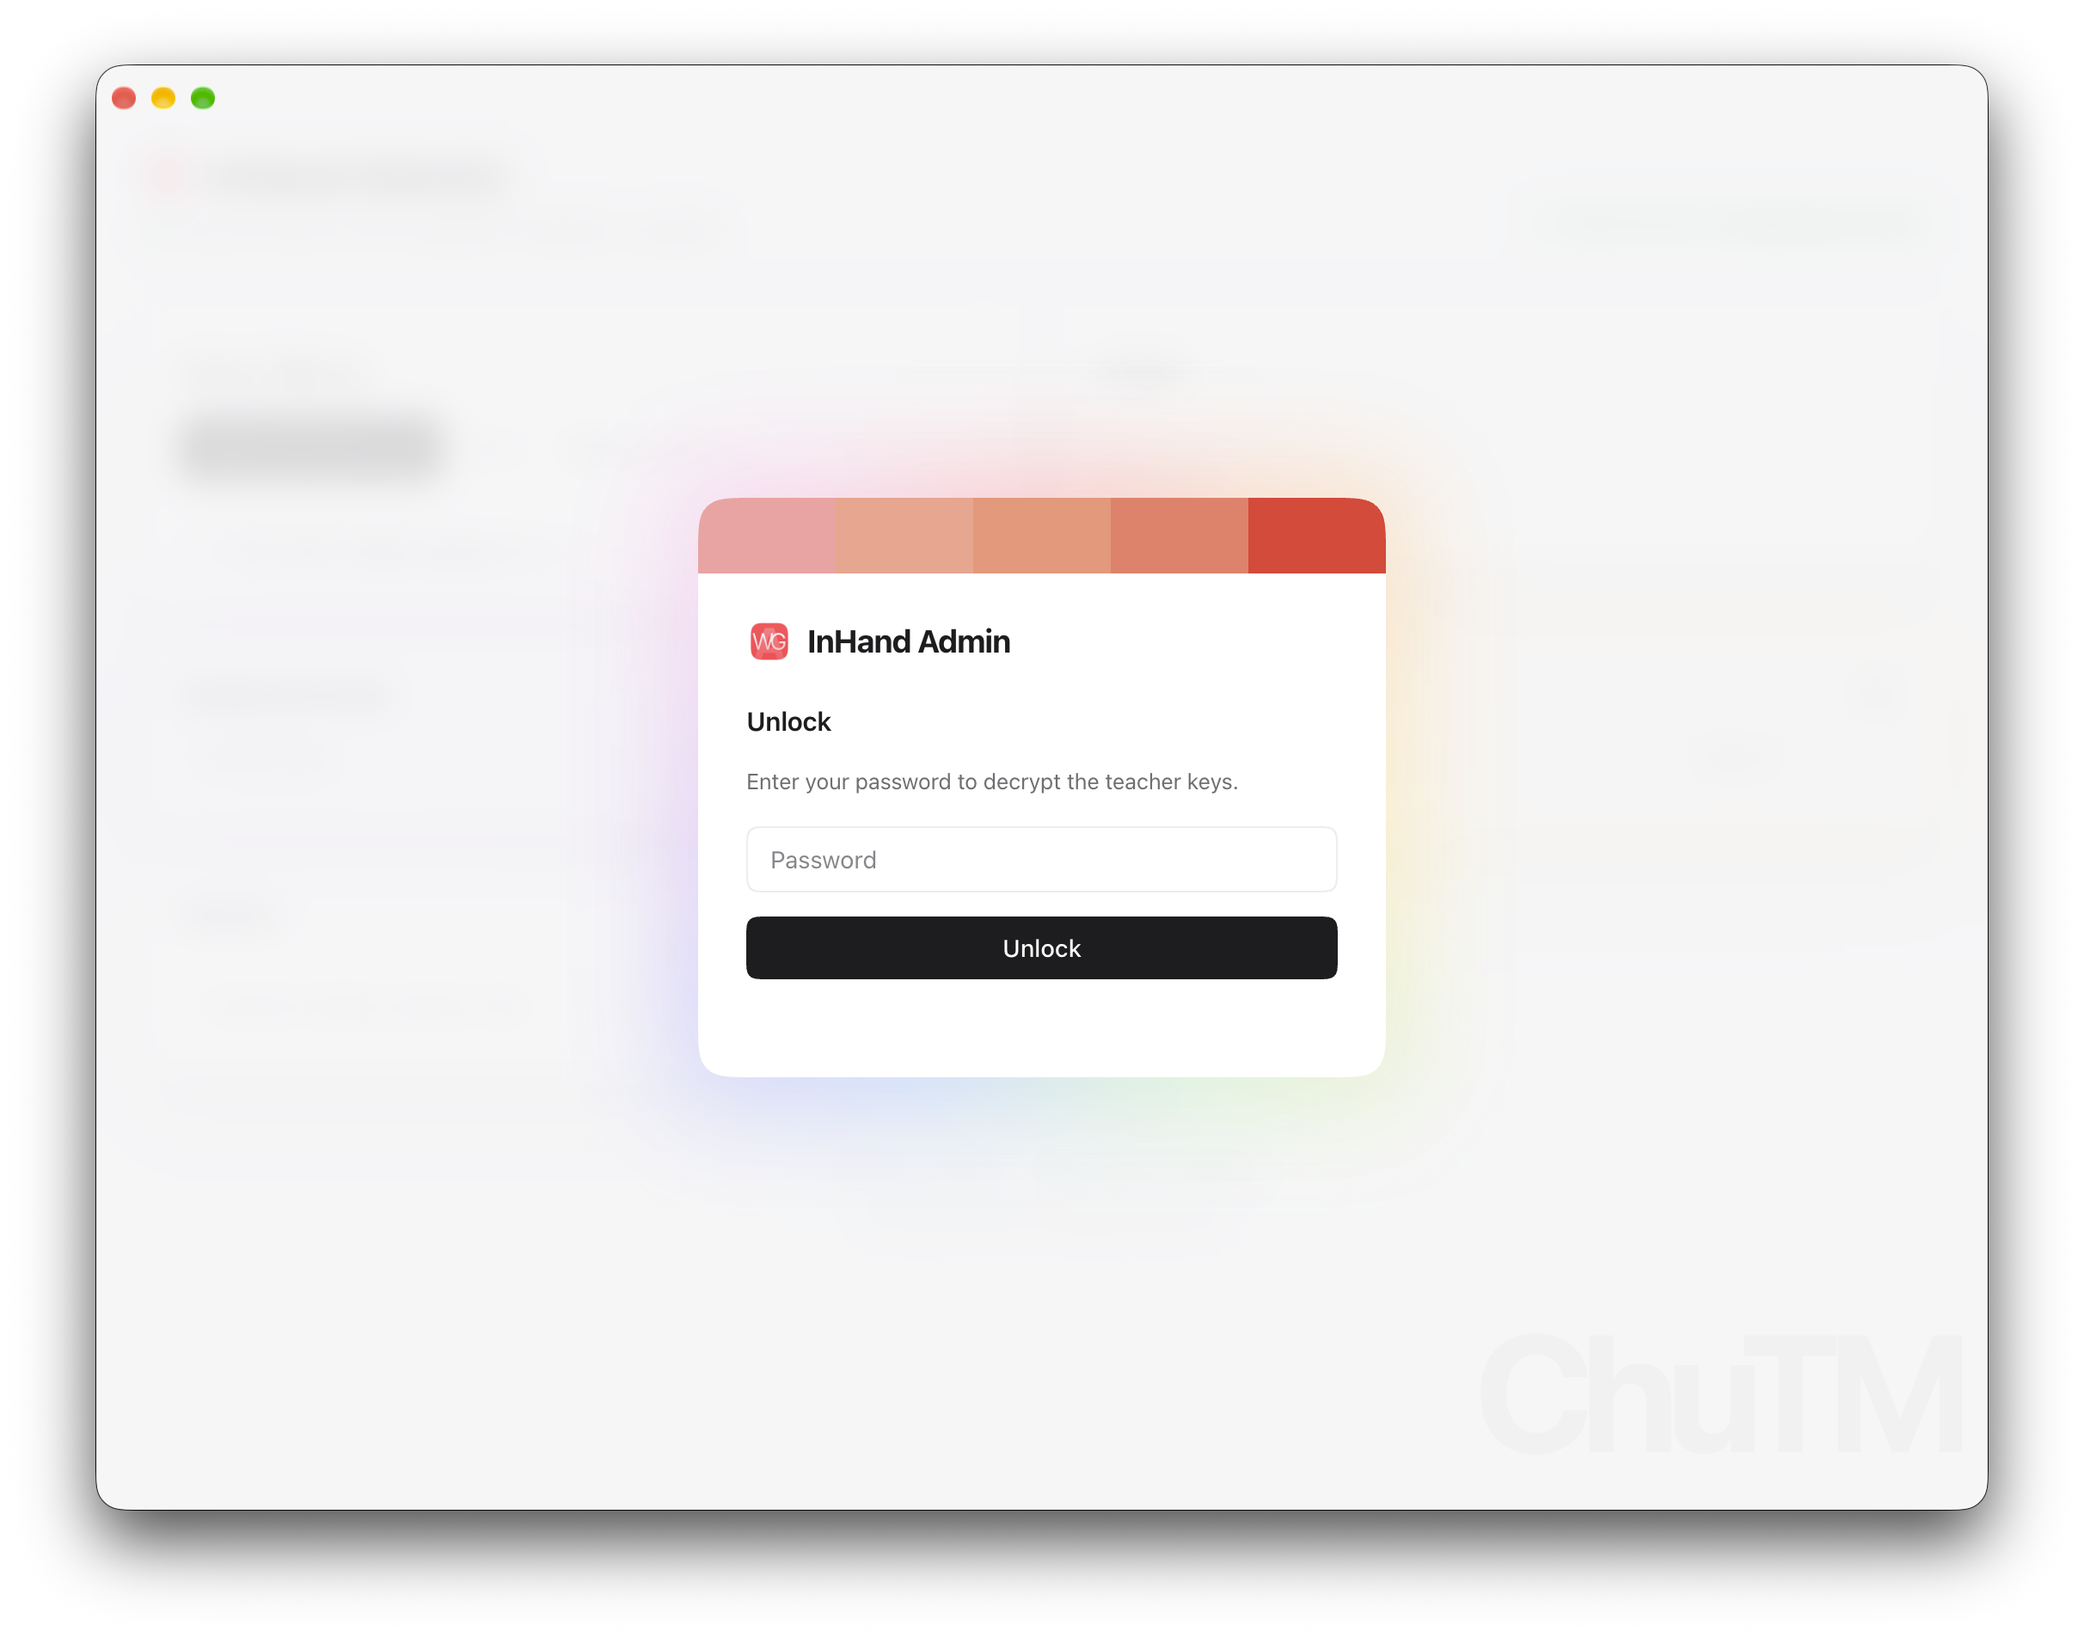
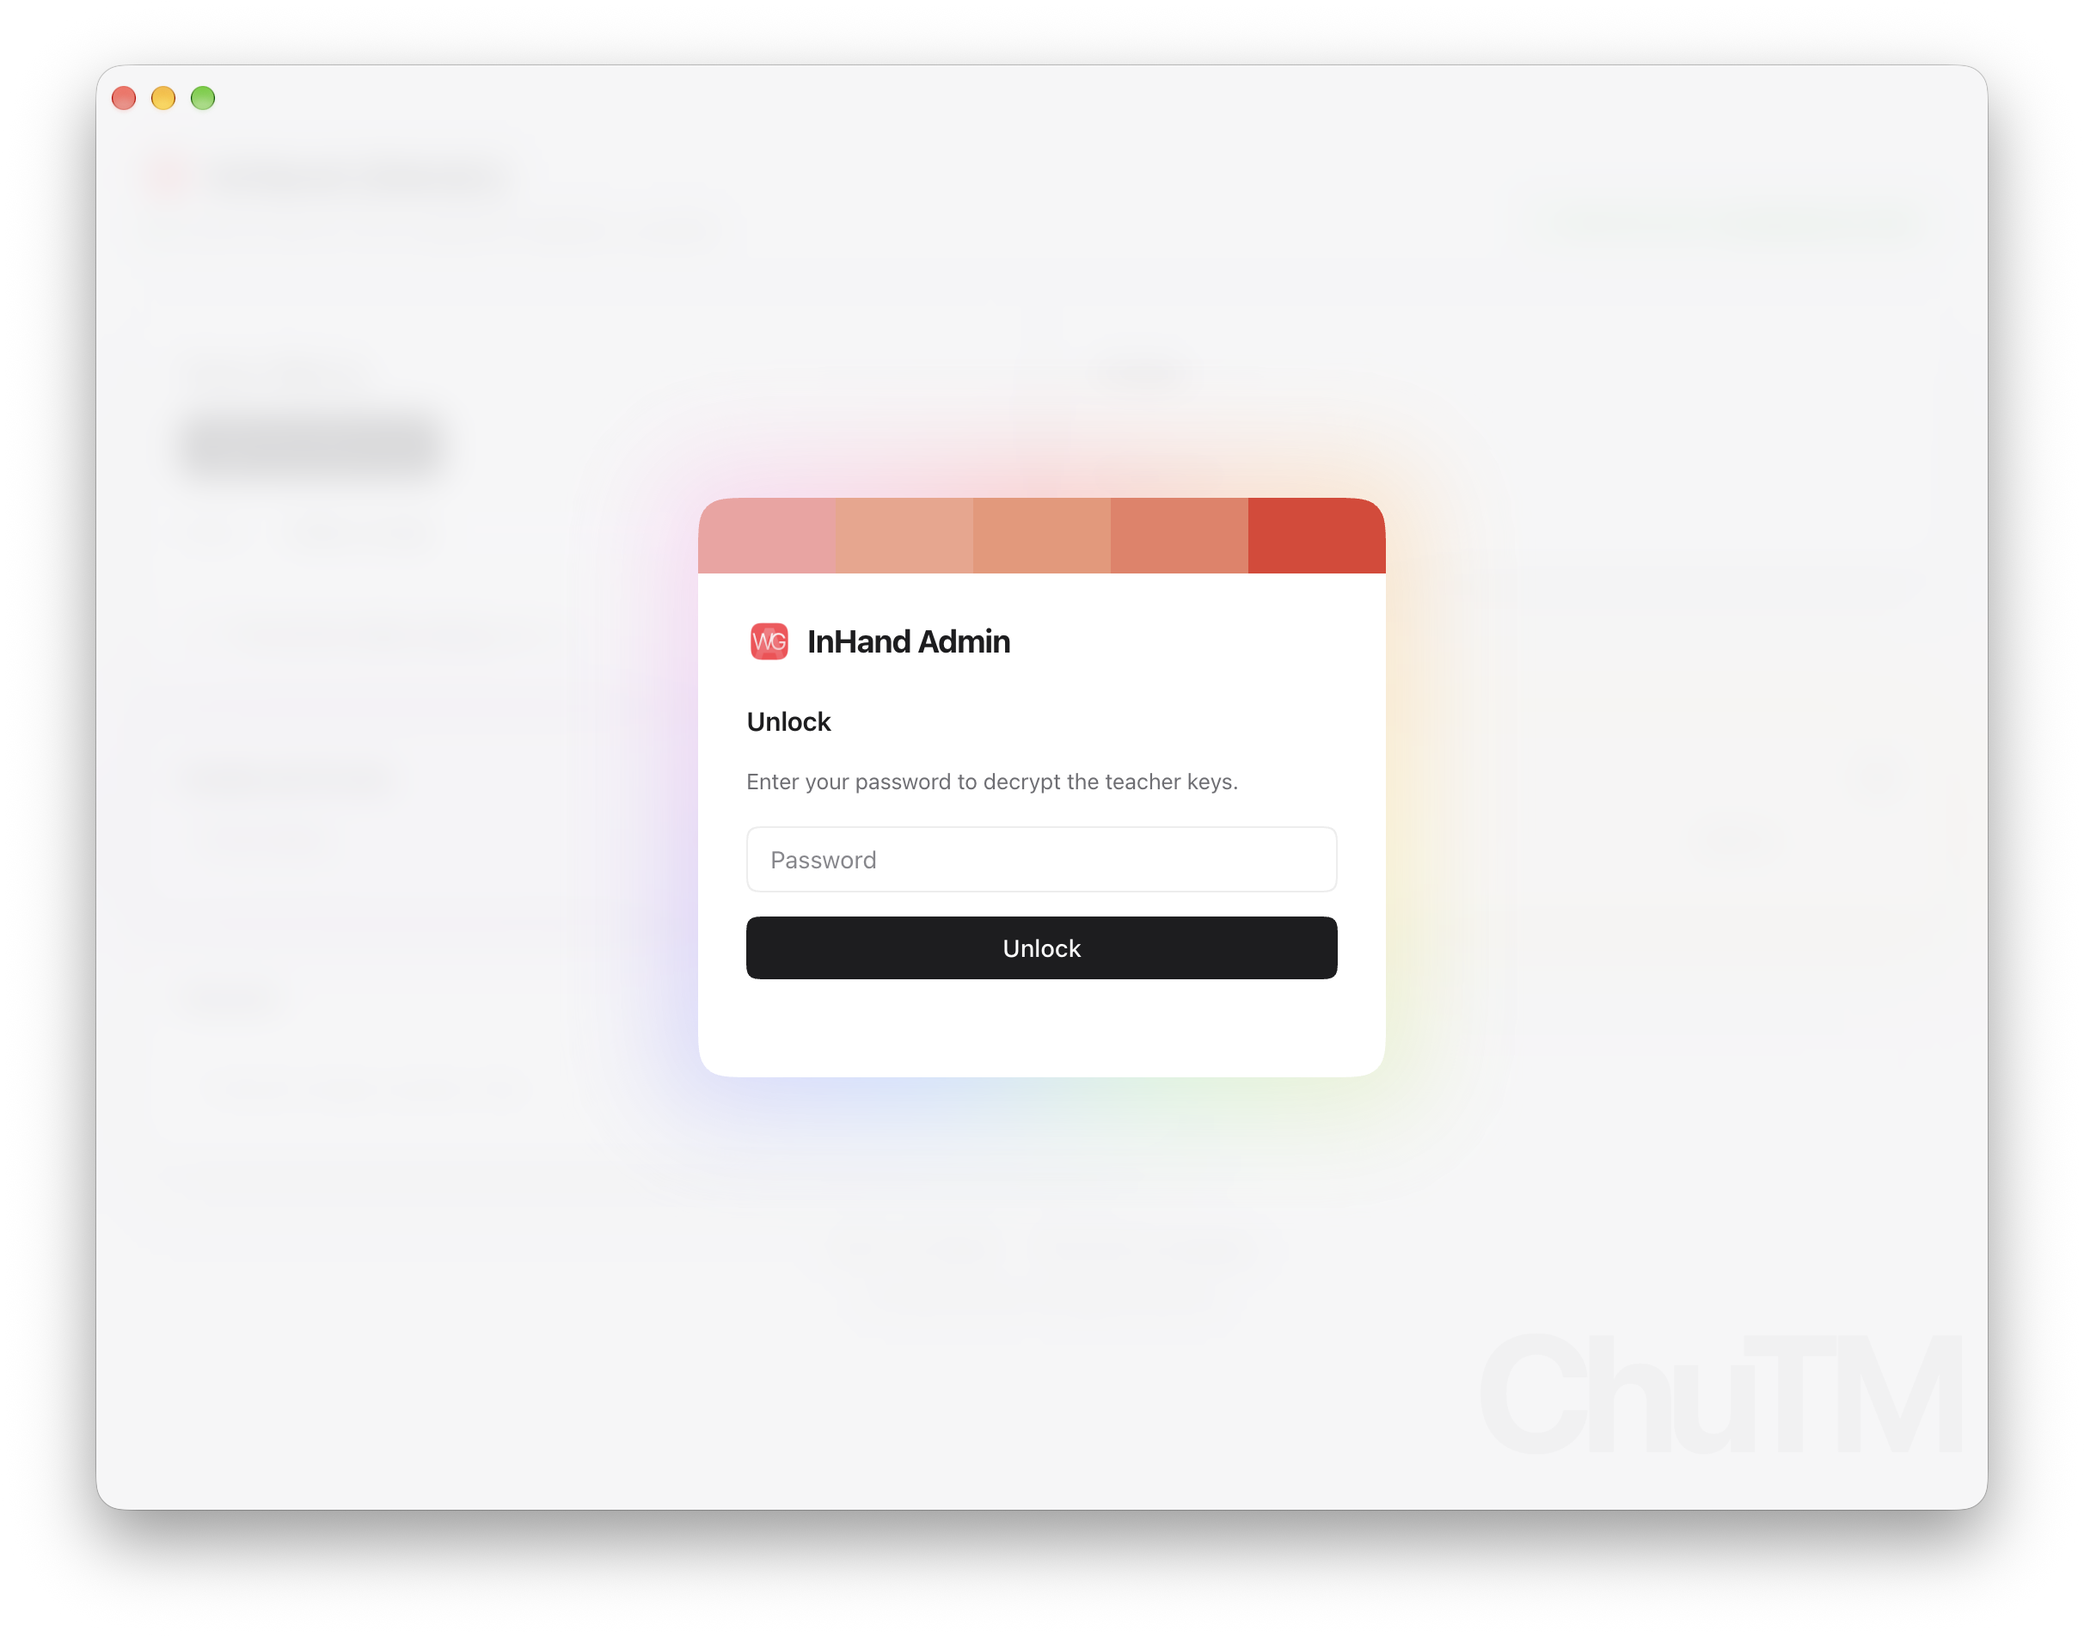
feat: improve admin interface and enhance data security documentation

Changed region(s): [[0.0309, 0.062, 0.9592, 0.9606], [0.0619, 0.031, 0.0928, 0.062]]

diff --git a/host/res/admin.script.js b/host/res/admin.script.js
@@ -48,7 +48,9 @@ document.getElementById("btn-setup").addEventListener("click", async () => {
 		return;
 	}
 	const schoolName = document.getElementById("setup-school").value.trim();
-	const registrationToken = document.getElementById("setup-token").value.trim();
+	const registrationToken = document
+		.getElementById("setup-token")
+		.value.trim();
 	const res = await window.electronAPI.setup(
 		password,
 		schoolName,
@@ -96,7 +98,13 @@ async function loadCommandWhitelist() {
 // ---------------------------------------------------------------------------
 // Actions (favorite commands rendered as cards with send animation)
 // ---------------------------------------------------------------------------
-let fwState = { locked: false, since: null, deadline: null, ttlMinutes: null, keySet: false };
+let fwState = {
+	locked: false,
+	since: null,
+	deadline: null,
+	ttlMinutes: null,
+	keySet: false,
+};
 
 // ---------------------------------------------------------------------------
 // SF Symbols: replace every <i data-sf="..."> placeholder with the matching
@@ -106,12 +114,19 @@ let fwState = { locked: false, since: null, deadline: null, ttlMinutes: null, ke
 // ---------------------------------------------------------------------------
 function replaceIconsWithSfSymbols(root = document) {
 	const els = Array.from(root.querySelectorAll("[data-sf]"));
-	let replaced = 0, skipped = 0;
+	let replaced = 0,
+		skipped = 0;
 	for (const el of els) {
 		const sfName = el.dataset?.sf;
-		if (!sfName) { skipped++; continue; }
+		if (!sfName) {
+			skipped++;
+			continue;
+		}
 		const ch = (window.SF_SYMBOLS || {})[sfName];
-		if (!ch) { skipped++; continue; }
+		if (!ch) {
+			skipped++;
+			continue;
+		}
 		el.textContent = ch;
 		el.removeAttribute("data-sf");
 		el.classList.add("sf-icon");
@@ -145,7 +160,8 @@ function buildActionCards() {
 		card.type = "button";
 		card.className = "action-card nav-action";
 		card.dataset.action = "password-book";
-		card.title = "Import or edit the student password book (used when clients need sudo to update)";
+		card.title =
+			"Import or edit the student password book (used when clients need sudo to update)";
 		card.innerHTML = `
 			<span class="action-icon"><span class="plane-wrap"><i data-sf="lock" class="sf-icon"></i></span></span>
 			<span class="action-name">Password Book</span>
@@ -153,7 +169,7 @@ function buildActionCards() {
 		`;
 		grid.appendChild(card);
 	}
-replaceIconsWithSfSymbols();
+	replaceIconsWithSfSymbols();
 	updateActionStates();
 }
 
@@ -167,6 +183,7 @@ function updateActionStates() {
 		if (type === "lan-only") {
 			const locked = !!fwState.locked;
 			card.classList.toggle("is-locked", locked);
+			card.classList.toggle("ai-arua", locked);
 			stateEl.setAttribute("aria-label", locked ? "ON" : "OFF");
 		}
 	}
@@ -199,9 +216,16 @@ async function handleActionClick(type, card) {
 }
 
 async function sendAction(type, params) {
-	const res = await window.electronAPI.sendTeacherEvent("command", { type, params });
+	const res = await window.electronAPI.sendTeacherEvent("command", {
+		type,
+		params,
+	});
 	if (!res.ok) {
-		appendConsoleOutput("Admin System", res.error || "Command rejected.", true);
+		appendConsoleOutput(
+			"Admin System",
+			res.error || "Command rejected.",
+			true,
+		);
 		return false;
 	}
 	return true;
@@ -238,7 +262,9 @@ function renderCommandParams() {
 	}
 }
 
-document.getElementById("cmd-type").addEventListener("change", renderCommandParams);
+document
+	.getElementById("cmd-type")
+	.addEventListener("change", renderCommandParams);
 
 document.getElementById("btn-send-cmd").addEventListener("click", sendCommand);
 
@@ -267,7 +293,11 @@ async function sendCommand() {
 		}
 	}
 	if (!ok) {
-		appendConsoleOutput("Admin System", "Missing required parameter(s).", true);
+		appendConsoleOutput(
+			"Admin System",
+			"Missing required parameter(s).",
+			true,
+		);
 		return;
 	}
 	const res = await window.electronAPI.sendTeacherEvent("command", {
@@ -275,7 +305,11 @@ async function sendCommand() {
 		params,
 	});
 	if (!res.ok) {
-		appendConsoleOutput("Admin System", res.error || "Command rejected.", true);
+		appendConsoleOutput(
+			"Admin System",
+			res.error || "Command rejected.",
+			true,
+		);
 	}
 }
 
@@ -284,9 +318,16 @@ async function sendCommand() {
 // ---------------------------------------------------------------------------
 const wpPathInput = document.getElementById("wp-path");
 async function sendWallpaperCommand(type, params) {
-	const res = await window.electronAPI.sendTeacherEvent("command", { type, params });
+	const res = await window.electronAPI.sendTeacherEvent("command", {
+		type,
+		params,
+	});
 	if (!res.ok) {
-		appendConsoleOutput("Admin System", res.error || "Command rejected.", true);
+		appendConsoleOutput(
+			"Admin System",
+			res.error || "Command rejected.",
+			true,
+		);
 		return;
 	}
 	appendConsoleOutput("Admin System", type + " sent to all clients.");
@@ -324,7 +365,9 @@ async function loadScreenSources() {
 			.join("");
 		if (sources.length > 0) {
 			currentShareSourceId = sources[0].id;
-			document.getElementById("share-permission-warning")?.classList.add("hidden");
+			document
+				.getElementById("share-permission-warning")
+				?.classList.add("hidden");
 		} else {
 			// macOS returns an empty list when this app has no Screen
 			// Recording permission (each rebuild invalidates the grant).
@@ -351,8 +394,13 @@ async function startScreenShare() {
 	const selector = document.getElementById("screen-source-selector");
 	const status = document.getElementById("share-status");
 	const select = document.getElementById("screen-source-select");
-	const persistentCheckbox = document.getElementById("persistent-share-window");
-	const isPersistent = persistentCheckbox ? persistentCheckbox.checked : false;
+	const persistentCheckbox = document.getElementById(
+		"persistent-share-window",
+	);
+	const isPersistent = persistentCheckbox
+		? persistentCheckbox.checked
+		: false;
+	const sharePanel = document.querySelector(".share-panel");
 
 	try {
 		if (select.options.length === 0) {
@@ -403,7 +451,8 @@ async function startScreenShare() {
 		btn.classList.add("sharing");
 		selector.classList.add("hidden");
 		status.classList.remove("hidden");
-replaceIconsWithSfSymbols();
+		sharePanel.classList.add("ai-aura");
+		replaceIconsWithSfSymbols();
 	} catch (err) {
 		console.error("Failed to start screen share:", err);
 		alert("Failed to start screen sharing: " + err.message);
@@ -414,6 +463,7 @@ async function stopScreenShare() {
 	const btn = document.getElementById("btn-share-screen");
 	const selector = document.getElementById("screen-source-selector");
 	const status = document.getElementById("share-status");
+	const sharePanel = document.querySelector(".share-panel");
 
 	await window.electronAPI.sendTeacherEvent("teacher-stop-share", {});
 
@@ -430,7 +480,8 @@ async function stopScreenShare() {
 	btn.classList.remove("sharing");
 	selector.classList.remove("hidden");
 	status.classList.add("hidden");
-replaceIconsWithSfSymbols();
+	sharePanel.classList.remove("ai-aura");
+	replaceIconsWithSfSymbols();
 }
 
 // A student share window asks to receive the teacher's broadcast.
@@ -456,7 +507,9 @@ socket.on("screen-share-offer", async (data) => {
 			iceServers: [{ urls: "stun:stun.l.google.com:19302" }],
 		});
 
-		localStream.getTracks().forEach((track) => pc.addTrack(track, localStream));
+		localStream
+			.getTracks()
+			.forEach((track) => pc.addTrack(track, localStream));
 
 		pc.onicecandidate = (event) => {
 			if (event.candidate) {
@@ -489,10 +542,17 @@ socket.on("screen-share-offer", async (data) => {
 			targetId: studentWindowId,
 			sdp: answer,
 		});
-		appendConsoleOutput("Screen Sharing", "Answer sent to " + studentWindowId);
+		appendConsoleOutput(
+			"Screen Sharing",
+			"Answer sent to " + studentWindowId,
+		);
 	} catch (err) {
 		console.error("Error answering student stream request:", err);
-		appendConsoleOutput("Screen Sharing", "Answer failed: " + err.message, true);
+		appendConsoleOutput(
+			"Screen Sharing",
+			"Answer failed: " + err.message,
+			true,
+		);
 	}
 });
 
@@ -561,9 +621,18 @@ async function fetchStatus() {
 			data = data.devices;
 		}
 
-		const esc = (v) => String(v ?? "").replace(/[&<>"']/g, (c) => ({
-			"&": "&amp;", "<": "&lt;", ">": "&gt;", '"': "&quot;", "'": "&#39;",
-		}[c]));
+		const esc = (v) =>
+			String(v ?? "").replace(
+				/[&<>"']/g,
+				(c) =>
+					({
+						"&": "&amp;",
+						"<": "&lt;",
+						">": "&gt;",
+						'"': "&quot;",
+						"'": "&#39;",
+					})[c],
+			);
 
 		table.innerHTML = data
 			.map((device) => {
@@ -579,9 +648,11 @@ async function fetchStatus() {
                             </td>
                             <td class="timestamp">${esc(device.lastSeen || device.firstSeen)}</td>
                             <td>
-                                ${isOnline
-									? `<button class="view-btn" data-action="view" data-name="${esc(device.name)}" data-sid="${esc(device.socketId)}"><i data-sf="eye"></i> View Screen</button>`
-									: `<button class="btn-remove" data-action="remove" data-name="${esc(device.name)}" title="Remove History">Remove</button>`}
+                                ${
+									isOnline
+										? `<button class="view-btn" data-action="view" data-name="${esc(device.name)}" data-sid="${esc(device.socketId)}"><i data-sf="eye"></i> View Screen</button>`
+										: `<button class="btn-remove" data-action="remove" data-name="${esc(device.name)}" title="Remove History">Remove</button>`
+								}
                             </td>
                         </tr>
                     `;
@@ -593,13 +664,18 @@ async function fetchStatus() {
 		const count = document.getElementById("client-count");
 		if (count) count.textContent = data.length;
 
-replaceIconsWithSfSymbols();
+		replaceIconsWithSfSymbols();
 	} catch (err) {
 		console.error("Failed to fetch status:", err);
 	}
 }
 
-function appendConsoleOutput(deviceName, payload, isError = false, fullFallback = {}) {
+function appendConsoleOutput(
+	deviceName,
+	payload,
+	isError = false,
+	fullFallback = {},
+) {
 	const streamContainer = document.getElementById("console-stream");
 	if (!streamContainer) return;
 
@@ -645,7 +721,8 @@ function appendConsoleOutput(deviceName, payload, isError = false, fullFallback 
 
 // Title bar double-click → maximize (moved out of inline HTML for strict CSP).
 document.getElementById("title-bar").addEventListener("dblclick", () => {
-	if (window.electronAPI?.handleDoubleClick) window.electronAPI.handleDoubleClick();
+	if (window.electronAPI?.handleDoubleClick)
+		window.electronAPI.handleDoubleClick();
 });
 
 // Event delegation for table actions (no inline onclick under strict CSP).
@@ -680,15 +757,21 @@ document.addEventListener("DOMContentLoaded", () => {
 	initializeConsoleLayout();
 	serverAddress();
 
-	document.getElementById("screen-source-select").addEventListener("change", (e) => {
-		currentShareSourceId = e.target.value;
-	});
+	document
+		.getElementById("screen-source-select")
+		.addEventListener("change", (e) => {
+			currentShareSourceId = e.target.value;
+		});
 
 	loadScreenSources().then(() => {
-		document.getElementById("screen-source-selector").classList.remove("hidden");
+		document
+			.getElementById("screen-source-selector")
+			.classList.remove("hidden");
 	});
 
-	document.getElementById("btn-share-screen").addEventListener("click", toggleScreenShare);
+	document
+		.getElementById("btn-share-screen")
+		.addEventListener("click", toggleScreenShare);
 
 	const configToggle = document.getElementById("config_mode");
 	if (configToggle) {
@@ -761,7 +844,9 @@ function removeConnectionHistory(deviceName) {
 		})
 			.then((response) => {
 				if (!response.ok) {
-					throw new Error(`Server responded with status ${response.status}`);
+					throw new Error(
+						`Server responded with status ${response.status}`,
+					);
 				}
 				return response.json();
 			})

diff --git a/host/res/admin.html b/host/res/admin.html
@@ -133,7 +133,7 @@
                 </div>
             </section>
 
-            <section class="panel clients-panel ai-aura">
+            <section class="panel clients-panel">
                 <div class="panel-head">
                     <h2>Monitored Clients</h2>
                     <span id="client-count" class="count-pill">0</span>

diff --git a/tools/server/markdowns/docs/data-security.md b/tools/server/markdowns/docs/data-security.md
@@ -46,6 +46,8 @@ A student client can never be tricked into running a modified binary, whether th
 
 ## 6. Minimal privileges on student devices
 
+![Sharing Screen & Lan-Only Mode](/images/docs/sharing-lan-only.png)
+
 The student client's **main app** is installed **per user** (`~/Library/Application Support/InHand/`) with no root daemon and no world-writable directories. Two optional helpers are installed **root-owned** under `/Library/Application Support/InHand/` — the **Capture** screen-recording helper and the **firewall** daemon — which students cannot remove. Screen Recording permission is requested once (to the Capture helper) and is required only so the teacher can view the screen during a lesson; you can revoke it in System Settings at any time. Because updates default to replacing **only the main app** (`install.sh -v`), the helpers' one-time grants are never reset by updates.
 
 ## 7. Where your data lives
